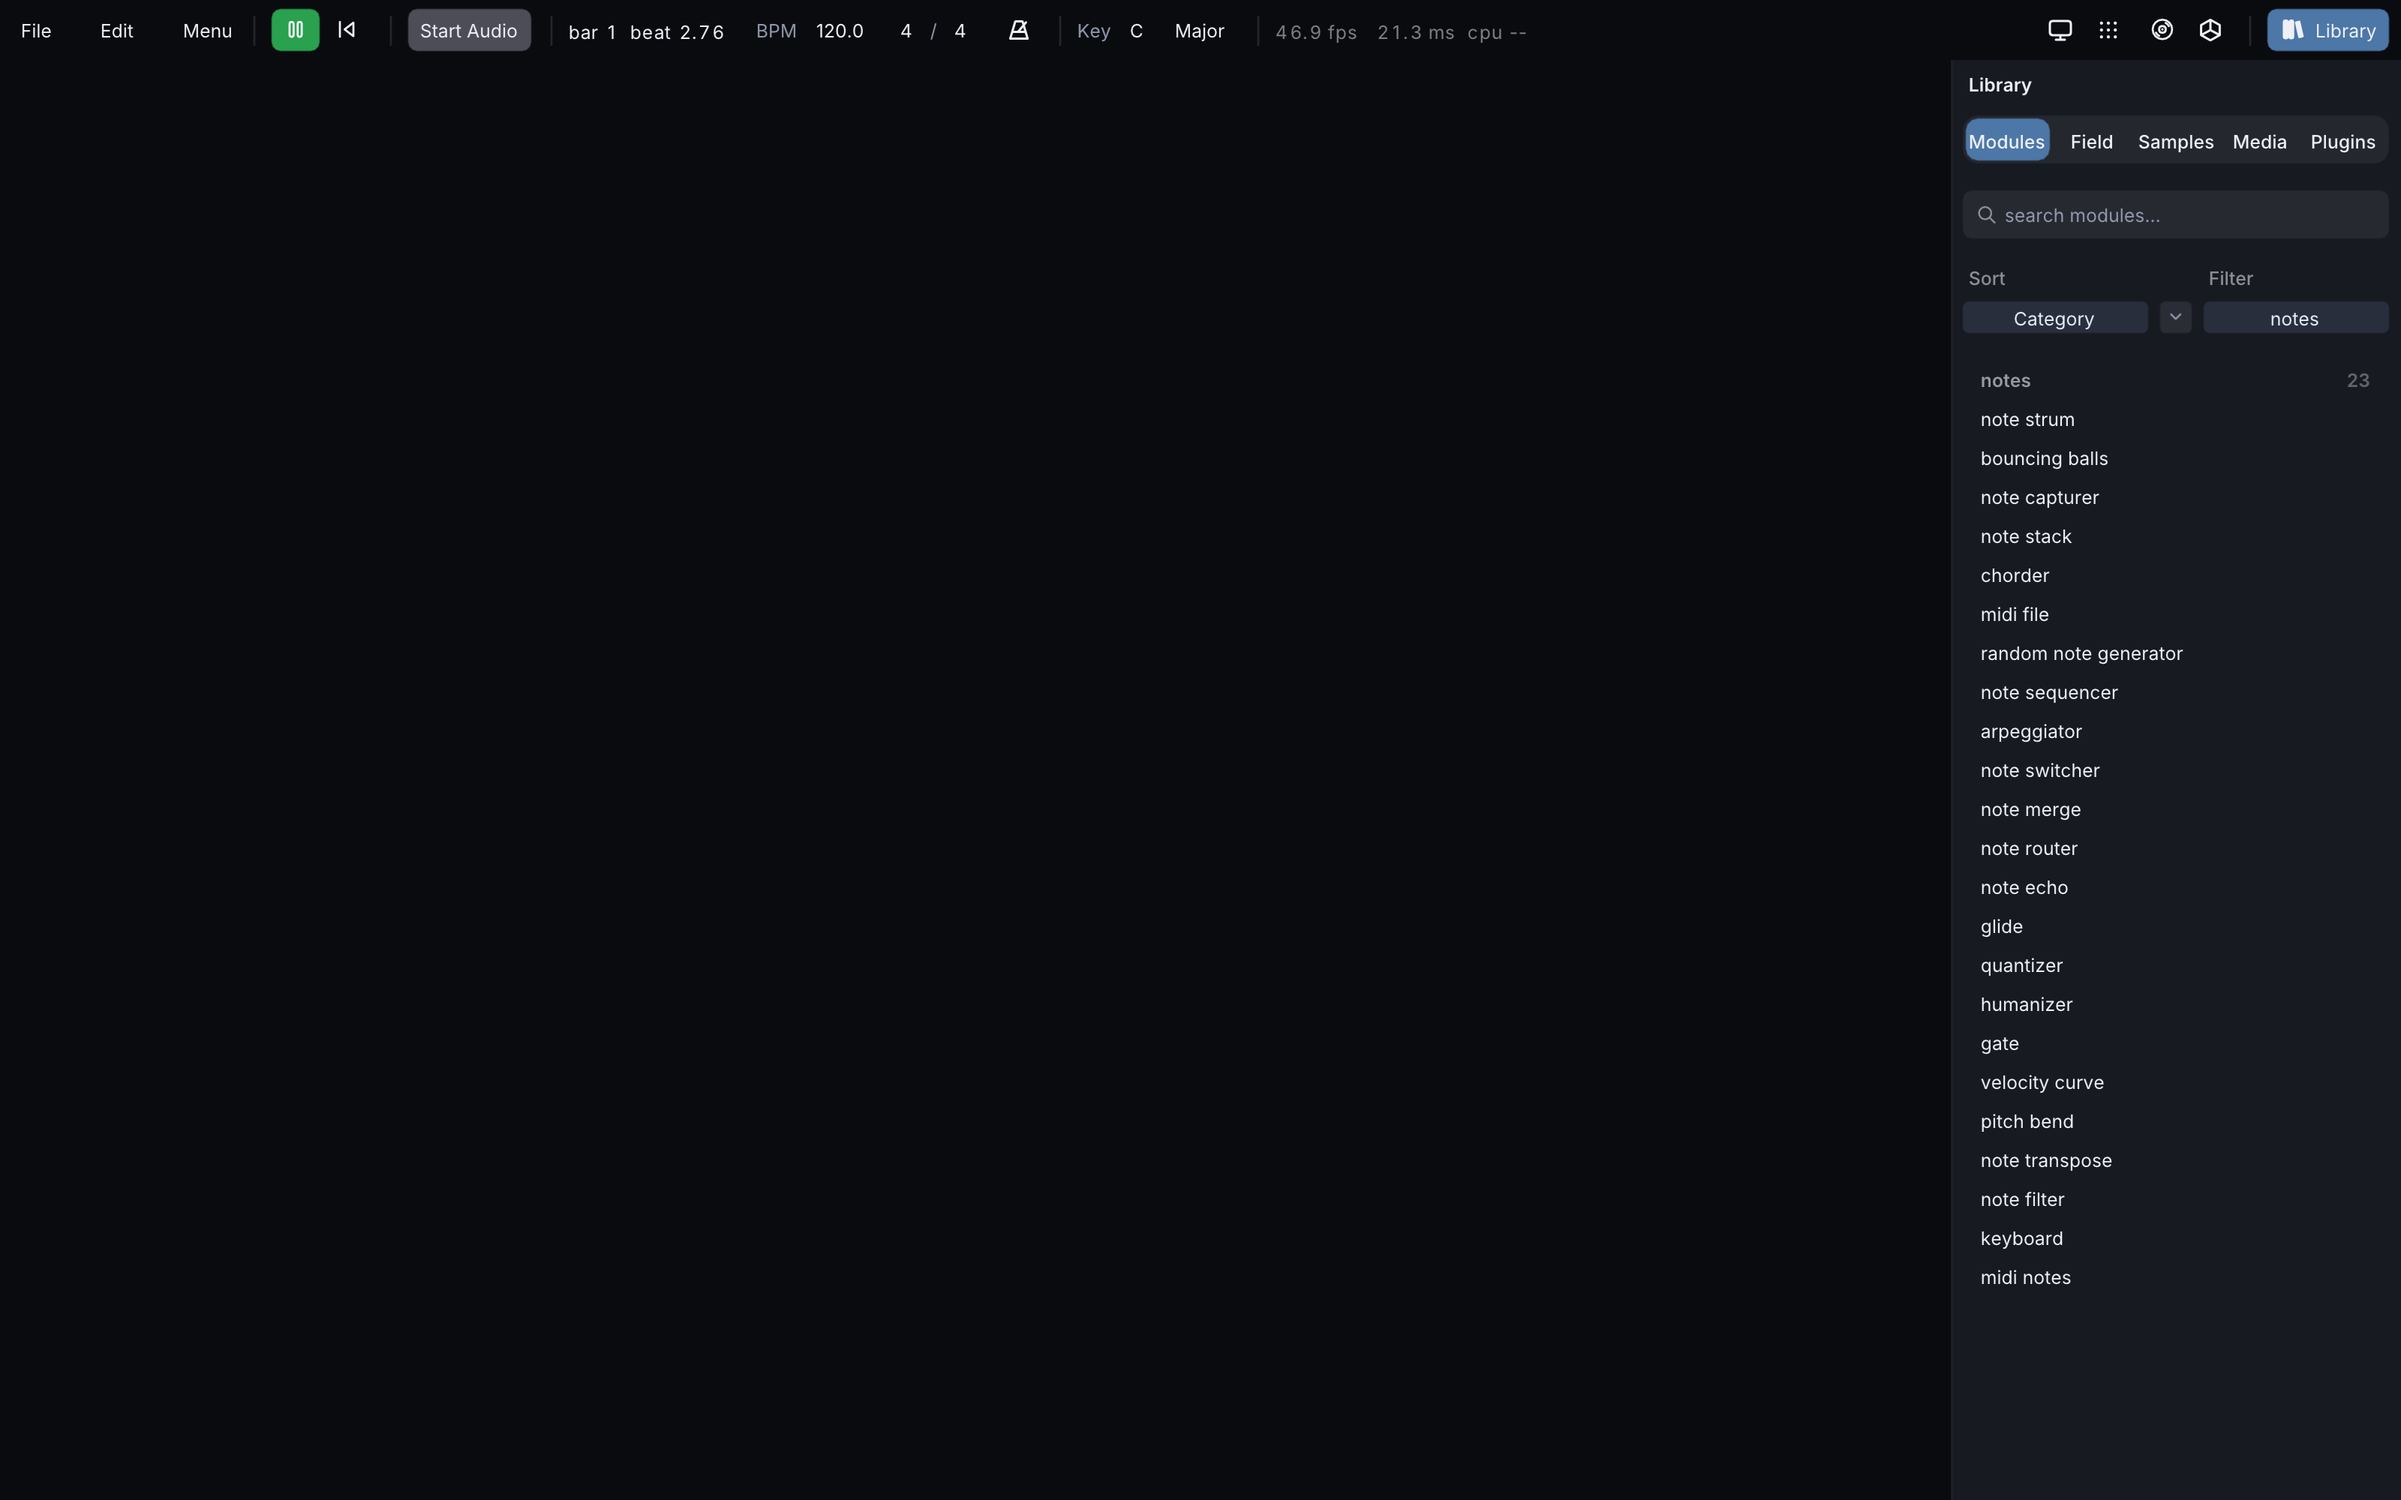
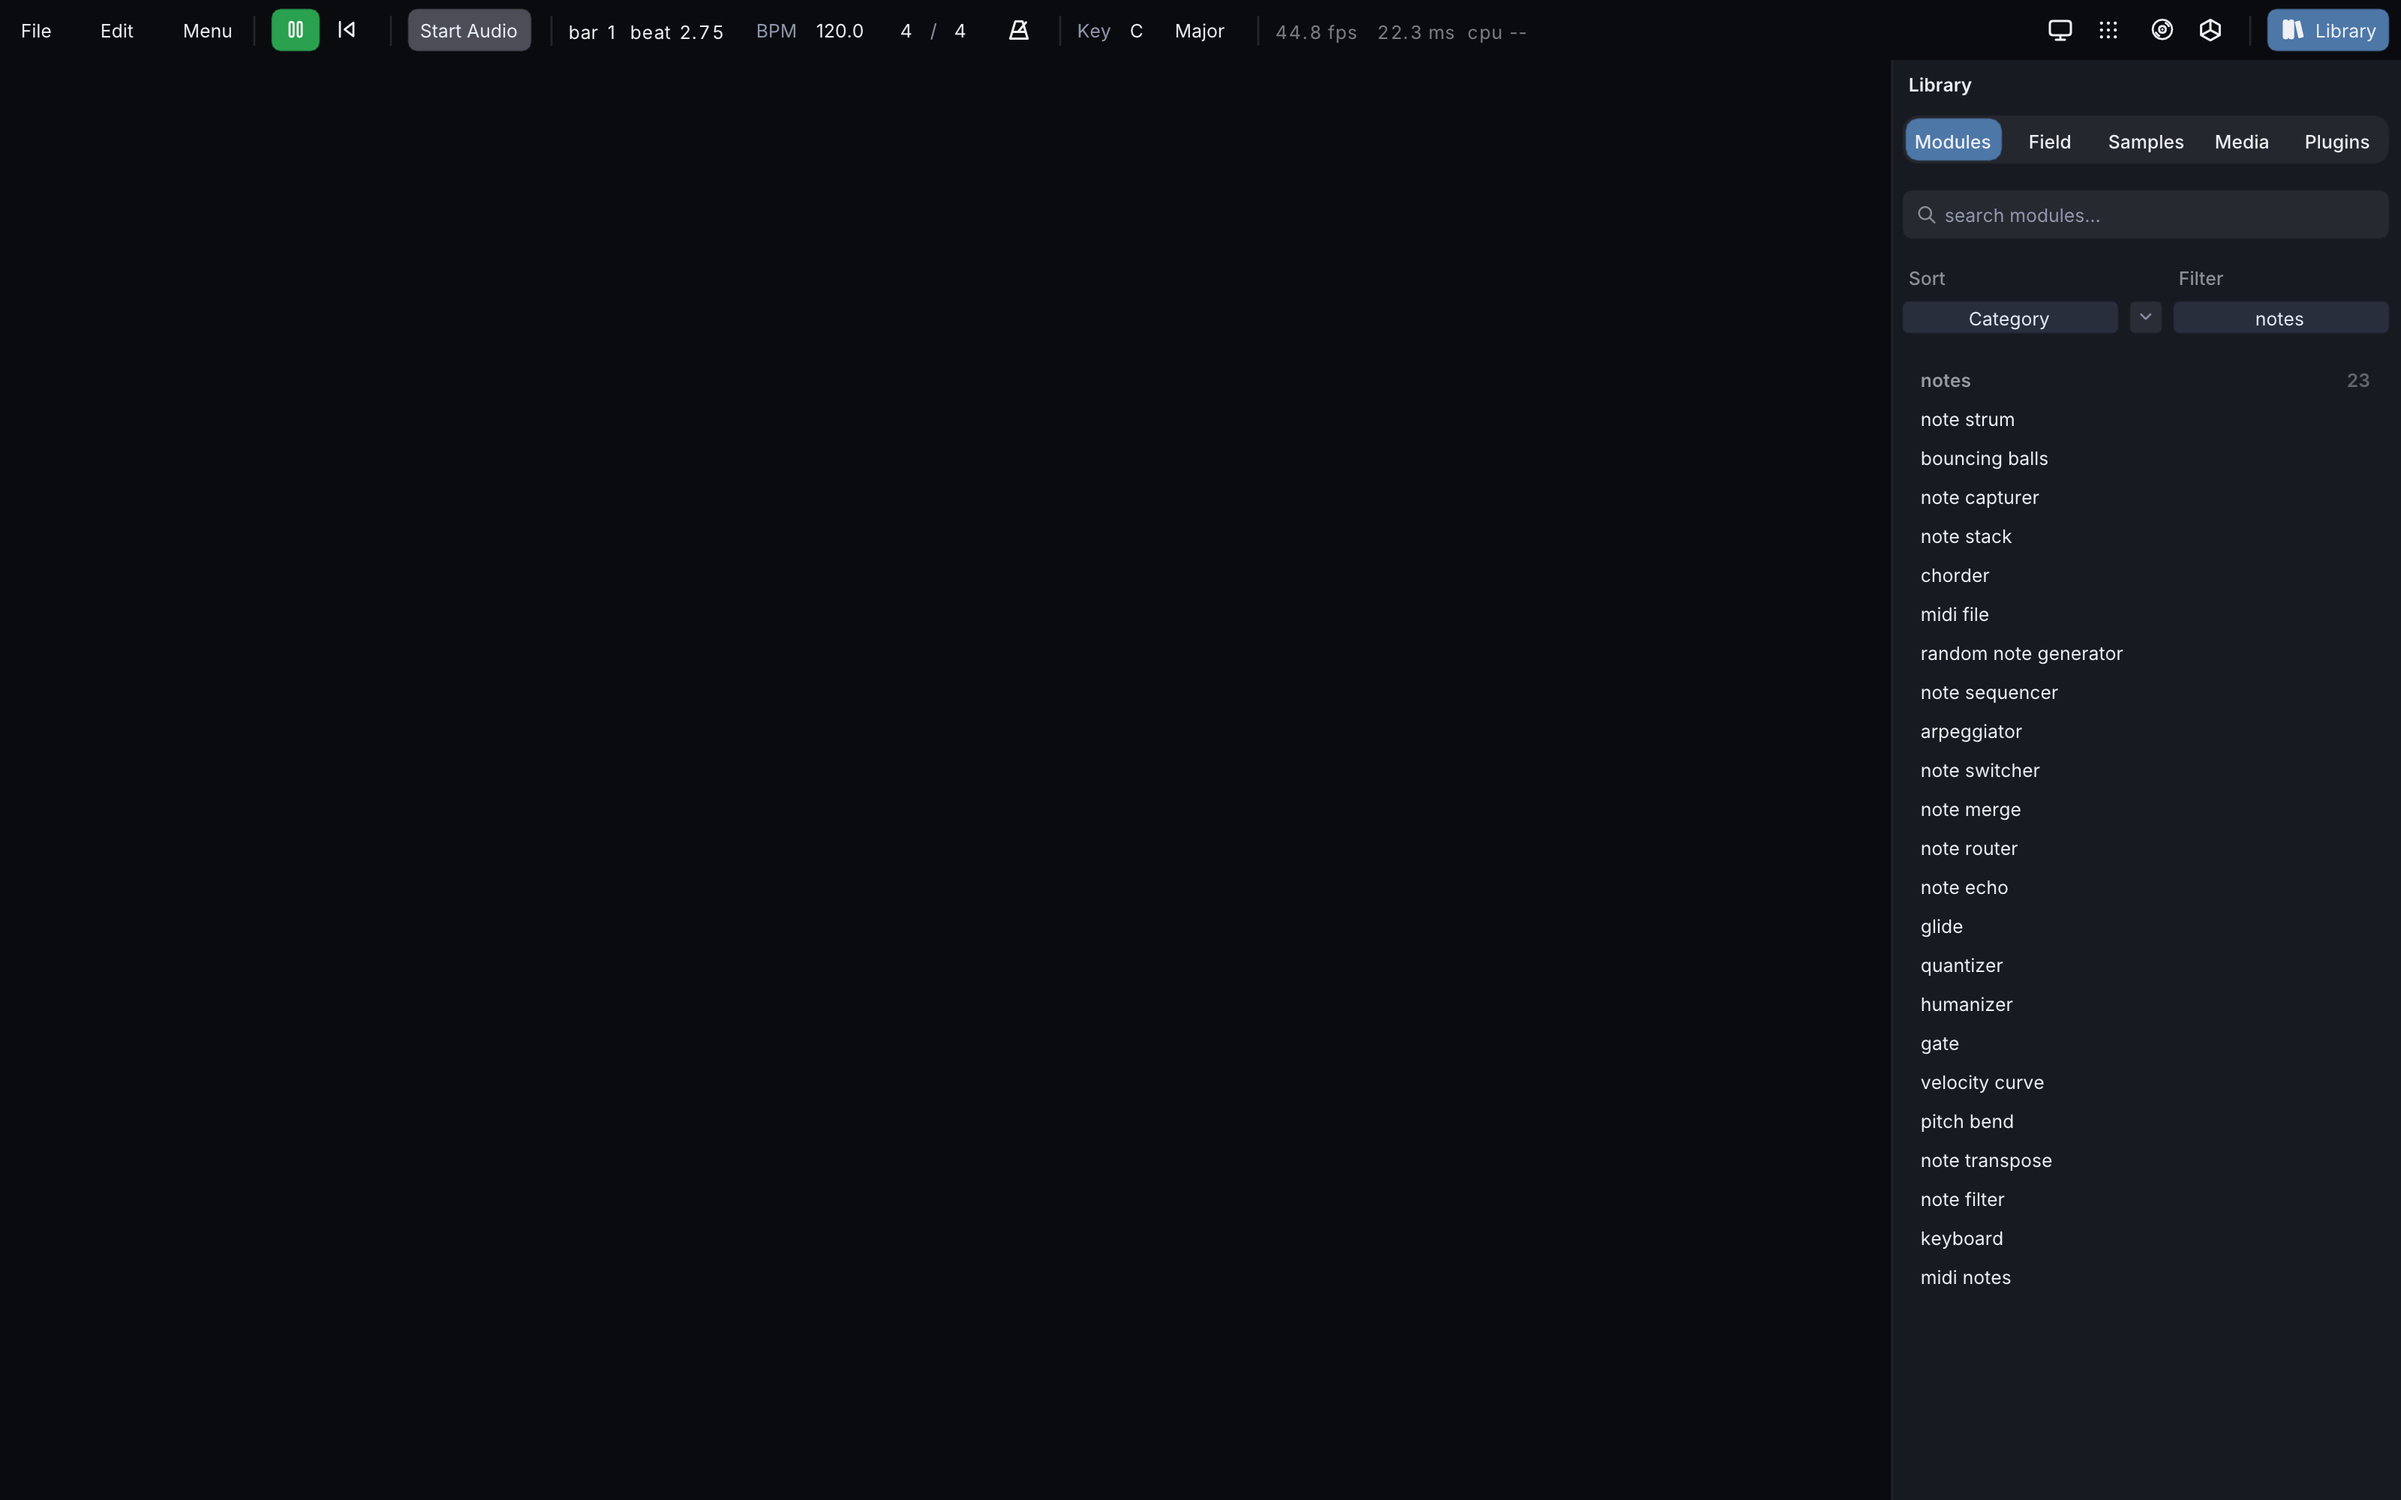
Library panel: 340 pt wide so the five mode tabs have room at the base font size

diff --git a/src/app/frame/StageLayout.cpp b/src/app/frame/StageLayout.cpp
@@ -88,7 +88,7 @@ void DrawLayout(FrameCtx& fc)
          liveCfg.NavigateButtonIndex = gPanWithLeft ? 0 : 1;
       }
 
-      kNodePanelWidth = 300.0f;
+      kNodePanelWidth = 340.0f;
       const bool viewportPanelOpen = gViewportPanelOpen;
       viewportBottom = viewportPanelOpen && gViewportPanelDock == 0;
       viewportRight = viewportPanelOpen && gViewportPanelDock == 1;
